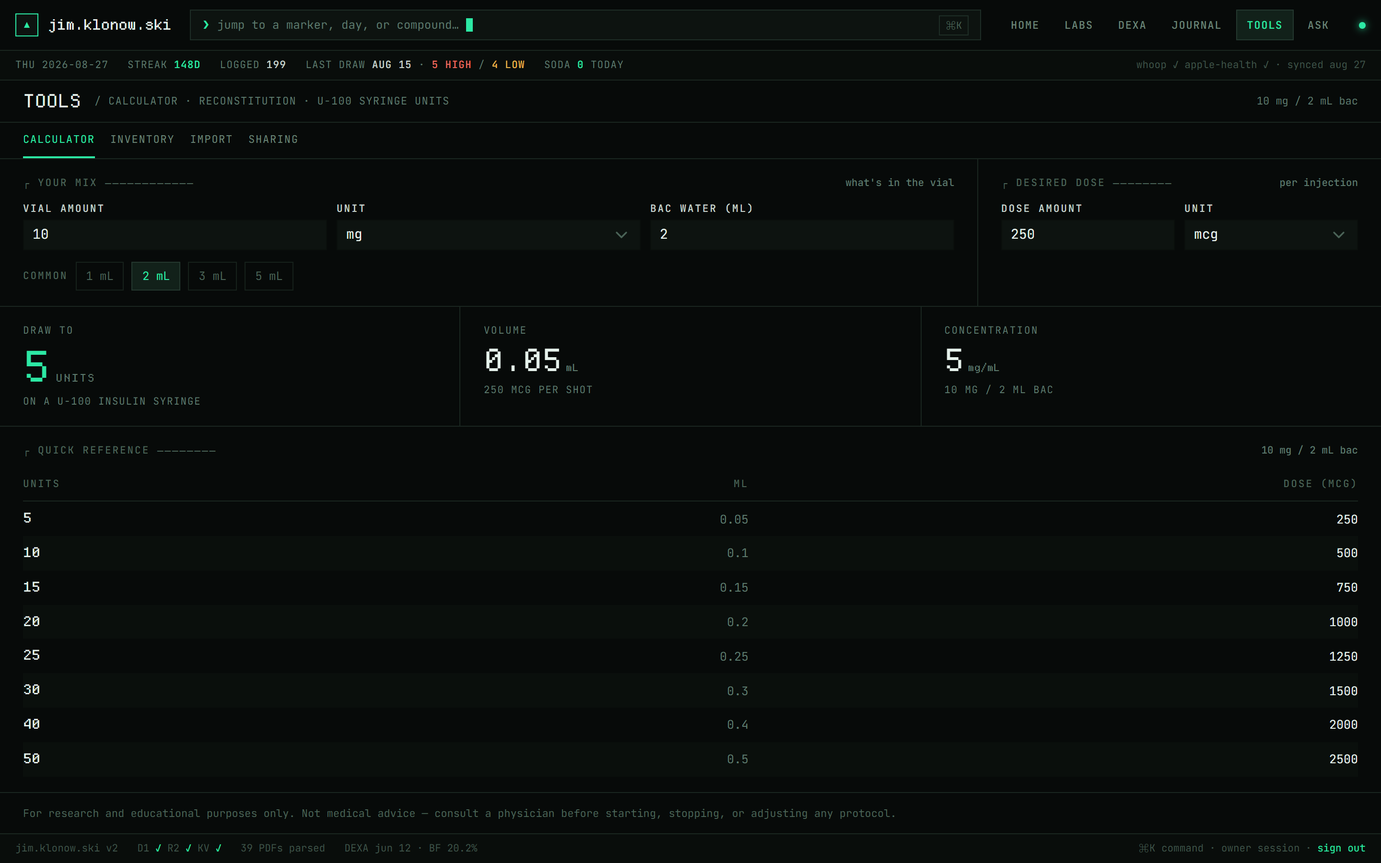
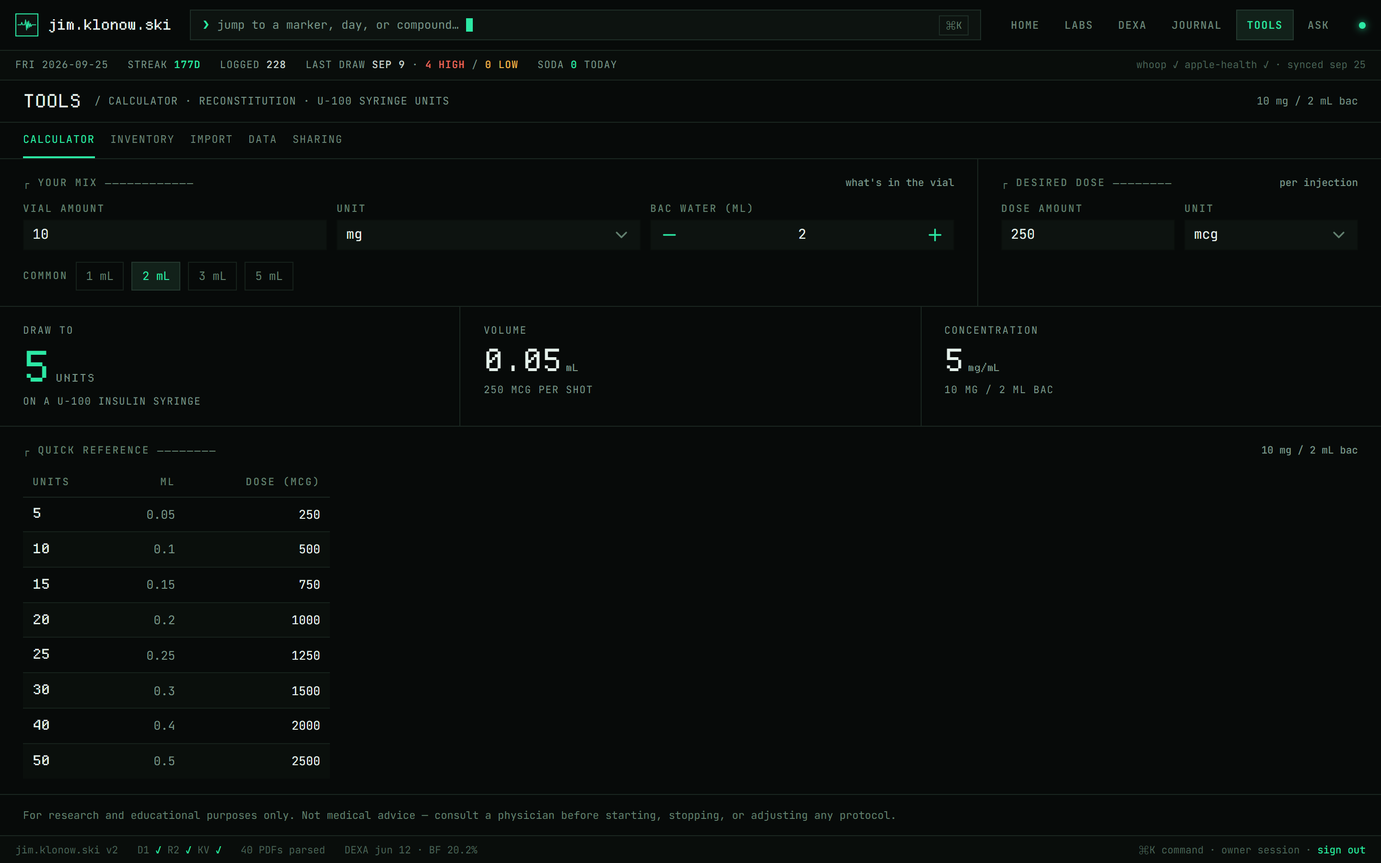
chore: refresh README and screenshots

diff --git a/README.md b/README.md
@@ -28,24 +28,27 @@ Personal health tracking site. Bloodwork trends, body composition, and a daily p
 | ![Entries ledger](.github/screenshots/journal-entries.png) | ![Calendar](.github/screenshots/journal-calendar.png) |
 | **`/journal/supplements` — standing stack** | **`/tools/calculator` — reconstitution & syringe units** |
 | ![Supplements](.github/screenshots/journal-supplements.png) | ![Calculator](.github/screenshots/tools-calculator.png) |
-| **`/tools/sharing` — role-based share links** | **`/tools/import` — Apple Health import + auto-sync** |
+| **`/journal/vaccines` — immunization record** | **`/tools/data` — export + change history** |
+| ![Vaccines](.github/screenshots/journal-vaccines.png) | ![Data](.github/screenshots/tools-data.png) |
+| **`/tools/sharing` — share links + sessions** | **`/tools/import` — Apple Health import + auto-sync** |
 | ![Sharing](.github/screenshots/tools-sharing.png) | ![Import](.github/screenshots/tools-import.png) |
 
 </details>
 
 ## Stack
 
-- **Nuxt 4** + Vue 3 + TypeScript
+- **Nuxt 4** + Vue 3 + TypeScript, on **Node ≥ 22.18** and **pnpm 11**
 - **Nuxt UI v4** + Tailwind CSS v4 — "Phosphor Terminal" dark-only TUI theme (JetBrains Mono / Departure Mono)
 - **Installable PWA** — standalone display, afib-heartbeat icon set (`public/`), iOS homescreen metas in `app/app.vue`
-- **Cloudflare Workers** — deployed via Wrangler (nodejs_compat)
-- **Cloudflare D1** — primary data store (journal, labs, DEXA, health metrics, workouts, cycles, digests, share invites)
-- **Cloudflare R2** — lab PDF and progress photo storage
-- **Cloudflare KV** — rate limiting
+- **Cloudflare Workers** (Paid plan) — deployed via Wrangler (nodejs_compat), with cron triggers for the scheduled tasks
+- **Cloudflare D1** — two databases: the real one (`DB`) and the demo sandbox (`DEMO_DB`), built and changed by numbered migrations
+- **Cloudflare R2** — lab PDFs, progress photos, the demo seed, and the weekly database backups
+- **Cloudflare KV** — rate limiting, and the "sign out other devices" cutoff
+- **zod** — every request body and query string is validated against a schema in `shared/utils/schemas.ts`
 - **nuxt-echarts** — trend charts
-- **Anthropic SDK** — server-side lab PDF parsing, protocol-aware lab summaries, daily/weekly health digests, freeform stock-dump parsing into inventory rows (structured output), and the `/ask` chat
+- **Anthropic SDK** — lab PDF parsing, protocol-aware lab summaries, daily/weekly health digests, freeform stock-dump parsing into inventory rows (structured output), and the `/ask` chat (models under **AI** below)
 - **Whoop API** — OAuth sync for recovery, sleep, and workout data
-- **@nuxtjs/seo** — per-page titles via a `%s | jim.klonow.ski` template (each page sets just its leaf name with `useSeoMeta`) and inferred OG/Twitter cards over a shared `public/og.png`
+- **@nuxtjs/seo** — per-page titles via a `%s | jim.klonow.ski` template (each page sets just its leaf name with `useSeoMeta`), inferred OG/Twitter cards over a shared `public/og.png`, and the robots rules under **Search engines and AI crawlers**
 
 ## Sections
 
@@ -57,6 +60,7 @@ Personal health tracking site. Bloodwork trends, body composition, and a daily p
 | `/labs/upload` | Upload a new lab PDF (parsed server-side into structured markers) — owner only |
 | `/labs/login` | Owner password sign-in |
 | `/share/[token]` | Public landing that exchanges a share link for a role session |
+| `/demo` | Starts a 24-hour demo session on the synthetic sandbox and lands on the home dashboard with a short guided tour — see **Demo mode** |
 | `/journal` | Hub — vital tiles with sparklines, today's doses + workout, soda/Whoop strip, and cards into each spoke below |
 | `/journal/trends` | Every vitals + Whoop/Apple Watch chart under one shared range picker (30/60/90d/all, optional 7d smoothing) |
 | `/journal/compounds` | Active protocol and every tracked compound — modeled exposure curves for the slow-release injectables (Bateman superposition of the dose log, lab draws overlaid) and a planned-vs-logged adherence panel scoring the standing cadence plus any planned cycles — linking out to the calculator and vial inventory |
@@ -65,14 +69,16 @@ Personal health tracking site. Bloodwork trends, body composition, and a daily p
 | `/journal/workouts` | Session log merged from Apple Health + Whoop, with stat cells and type mix |
 | `/journal/entries` | Day-log ledger of every journal row — hidden from the doctor role |
 | `/journal/[date]` | Create or edit a day's entry (read-only for guests) — "copy from previous" mirrors each injection site (left glute → right glute) so sides rotate day to day |
-| `/journal/calendar` | Month view with compound-colored dots, scheduled-dose rings (planned vs logged, from the hand-maintained `PROTOCOL_RULES` cadence merged with any planned cycles — an upcoming cycle previews its rings on future days) + protocol timeline (logged compounds, plus standing meds backfilled from the `STANDING_COMPOUNDS` constant) |
+| `/journal/calendar` | Month view with compound-colored dots, scheduled-dose rings (planned vs logged, from the standing `PROTOCOL_RULES` cadence merged with any planned cycles — an upcoming cycle previews its rings on future days) + protocol timeline (logged compounds, plus the standing meds in `STANDING_COMPOUNDS` that never enter the dose log; both live in `shared/utils/protocolRules.ts`) |
 | `/journal/photos` | Progress photos — bulk upload, before/after compare slider, reframing |
 | `/journal/compound/[name]` | Dosing history for a single compound, with a modeled exposure curve for the slow-release ones |
 | `/journal/supplements` | Standing vitamin/supplement/skin stack (active, on-hand, discontinued) — feeds AI prompts; editing owner only |
+| `/journal/vaccines` | Immunization record — one row per dose, grouped into per-vaccine coverage with next-due boosters (`shared/utils/vaccines.ts`), plus a profile card for standing facts like blood type. Recent shots reach the AI prompts as an acute-response caveat; readable by every role, editing owner only |
 | `/tools/calculator` | Peptide reconstitution & syringe unit calculator — bridges IU↔mg for HGH/hCG when opened from a compound page (IU doses display their mg equivalent app-wide via `IU_PER_MG` in `shared/utils/peptideCalc.ts`) |
 | `/tools/inventory` | Peptide vial inventory and depletion tracking — **✦ STOCK DUMP** has Claude parse a freeform "what's in the fridge" sentence into sealed-vial rows (structured output, corrected in a confirm table before saving), and a **runway panel** (`shared/utils/stockRunway.ts`) shows days-of-stock per compound at the logged pace plus whether the stockpile covers the remaining doses of the next planned cycle — owner only, plus the demo sandbox |
 | `/tools/import` | One-time Apple Health XML import + Health Auto Export auto-sync webhook — owner only |
-| `/tools/sharing` | Mint, list, and revoke share links — owner only |
+| `/tools/data` | Full JSON export (the weekly backup's format) and the change history, where any delete or overwrite can be put back — owner only |
+| `/tools/sharing` | Mint, list, and revoke share links, and sign out your other devices — owner only |
 | `/ask` | AI analysis console — streaming chat over the full tracked history (labs, DEXA, journal, Whoop, protocol) — owner only |
 | `/privacy` | Privacy notice |
 
@@ -82,12 +88,14 @@ Personal health tracking site. Bloodwork trends, body composition, and a daily p
 
 Cookie sessions are HMAC-signed tokens (key: `LABS_SECRET`) carrying one of four roles:
 
-- **owner** — logs in with `LABS_PASSWORD`; full read/write. Writes to lab data additionally require a 9-digit `LABS_UPLOAD_PIN` (second-factor cookie, 12h).
-- **friend** — read-only mirror of the whole site.
-- **doctor** — clinical slice only: labs, DEXA, vitals/protocol trends, compounds, workouts. Daily entries, the `/journal/entries` ledger, notes, sodas, photos, and digests are blocked (notes/sodas are stripped server-side).
-- **demo** — self-serve, credential-free 24h session minted by visiting [`/demo`](https://jim.klonow.ski/demo) (replaces whatever session cookie is present). Sees and edits only the synthetic sandbox — see **Demo mode** below. Blocked from the AI/upload/sharing surfaces.
+- **owner** — logs in with `LABS_PASSWORD`; full read/write. Lab uploads, lab JSON saves, and summary regeneration also need a 9-digit `LABS_UPLOAD_PIN` (a second-factor cookie, 12h).
+- **friend** — read-only mirror of the whole site, except the owner's management pages (upload, import, data, sharing, inventory) and `/ask`.
+- **doctor** — the clinical record: labs and DEXA, the journal hub, vitals and protocol trends, compounds and their dossiers, workouts, the calendar, the calculator, supplements, vaccines, and planned cycles. Daily entries, the `/journal/entries` ledger, photos, and digests are off-limits, and the journal list the doctor receives has food, sodas, and notes blanked server-side. The allowlist is `DOCTOR_PAGES` in `shared/utils/access.ts`; anything not on it is denied.
+- **demo** — self-serve, credential-free 24h session minted by visiting [`/demo`](https://jim.klonow.ski/demo) (replaces whatever session cookie is present). Sees and edits only the synthetic sandbox — see **Demo mode** below. Blocked from the AI, upload, import, data, and sharing pages.
 
-Guests never get a password: the owner mints **share links** (`/share/<token>`) from `/tools/sharing`, each with a role, redemption expiry, and use limit, backed by the `invites` D1 table. Revoking a link also invalidates every session minted from it — guest requests re-check invite liveness. Sign-in/sign-out live in the footer status bar.
+Guests never get a password: the owner mints **share links** (`/share/<token>`) from `/tools/sharing`, each with a role, redemption expiry, and use limit, backed by the `invites` D1 table, which stores only a SHA-256 of each link's token. Revoking a link also invalidates every session minted from it — guest requests re-check invite liveness. Sign-in/sign-out live in the footer status bar.
+
+Owner sessions are self-contained signed tokens, so **Sign out other devices** on `/tools/sharing` is how one ends early: it stores a cutoff time in KV, and every owner session and upload-PIN unlock issued before it stops working (this device gets a fresh token). It can take up to a minute to reach every Cloudflare location.
 
 Enforcement is layered: `server/middleware/auth.ts` verifies the cookie once per request and gates page navigation, `shared/utils/access.ts` holds the role→page policy shared with the client route middleware, and every API handler asserts its own requirement (`requireLabsAuth` / `requireOwner` / `requireRole` in `server/utils/auth.ts`).
 
@@ -99,7 +107,7 @@ Visiting **[/demo](https://jim.klonow.ski/demo)** mints a demo-role session and 
 
 - A fully **synthetic persona**: ~20 months of journal vitals and doses, 9 lab draws with story arcs (ApoB 108→71, a TRT start with the expected LH/FSH suppression and hematocrit creep), 4 DEXA scans, daily sleep/recovery metrics, workouts, a supplement stack, and a vial inventory that lines up with the logged doses.
 - **Sandboxed writes** — journal days, sodas, supplements, and vials are editable (`requireWriteAccess` guard); demo visitors share the sandbox until it resets.
-- **Canned AI** — TICKER digests and lab summaries are pre-written into the seed; no live Anthropic calls, and `/ask`, uploads, imports, and sharing stay owner-only.
+- **Canned AI** — TICKER digests and lab summaries are pre-written into the seed; no live Anthropic calls, and `/ask`, uploads, imports, the data page, and sharing stay owner-only.
 - **Nightly reset** — the `demo:reset` task (09:00 UTC cron) wipes the sandbox and reseeds it from `demo/seed.json` in R2, re-anchoring every relative date so the data always ends "yesterday".
 
 The persona is generated deterministically by `scripts/demo/generate-demo-data.mjs` (committed seed: `scripts/demo/demo-seed.json`) and loaded with `pnpm demo:seed:local` / `pnpm demo:seed:remote`. Progress photos are neutral placeholder silhouettes under `demo/` keys in the photos bucket; the photo proxy refuses any non-`demo/` key to a demo session.
@@ -115,6 +123,16 @@ Hardening beyond auth is handled by [nuxt-security](https://nuxt-security.vercel
 
 Deliberately not enabled — with reasoning in the config comments: `xssValidator` (false-positives on freeform journal text; Vue escaping + CSP cover XSS), `corsHandler` (same-origin API), `allowedMethodsRestricter` (nitro's file-based method routing already 405s), CSRF tokens (cookies are `httpOnly`/`secure`/`sameSite: lax`).
 
+The lab-PDF proxy only serves flat lab-PDF names (`isLabPdfKey`). The labs bucket also holds the demo seed and the database backups, and the proxy would otherwise have served those to any signed-in guest who guessed a key.
+
+### Search engines and AI crawlers
+
+Only the public pages are meant to be indexed: the home page and `/privacy`. Both halves of that live in `nuxt.config.ts`:
+
+- **`robots.txt`** disallows `/labs`, `/journal`, `/tools`, `/ask`, `/share`, and `/demo`. A crawled `/demo` would mint a session, and everything else only ever shows a crawler a login redirect. `/api` is deliberately left out, since blocking it can break Google's render of pages that fetch client-side.
+- **Route rules** (`robots: false`) send `X-Robots-Tag: noindex` on the private sections and keep them out of the sitemap.
+- **AI-usage directives** in the `*` group (`Content-Usage: train-ai=n, search=y` and `Content-Signal: search=yes, ai-train=no, ai-input=no`) say search indexing yes, training and live AI-answer fetching no. They're advisory. Cloudflare's "Block AI bots" rule enforces the same thing at the edge.
+
 ## Data & integrations
 
 - All entries (journal, labs, DEXA, health metrics, workouts, vials, cycles, digests, invites) live in **D1**. `server/database/schema.sql` is the commented schema. The databases themselves are built and changed by the numbered wrangler migrations in `server/database/migrations`.
@@ -126,47 +144,104 @@ Deliberately not enabled — with reasoning in the config comments: `xssValidato
 - The **`/ask` console** (`server/api/ai/ask.post.ts`) streams answers to freeform questions over a per-request fact sheet built by `server/utils/askContext.ts` — every lab draw, every DEXA scan, all-time compound history, precomputed trends, and recent daily detail. Owner-only and KV rate-limited, since every question is an Anthropic call.
 - All three AI surfaces share standing protocol context: the intended dosing schedule (generated by `shared/utils/protocolProse.ts` from the same `PROTOCOL_RULES` the adherence panel scores against, plus standing meds that never hit the dose log and as-needed compounds), dated one-off notes (`shared/utils/protocolEvents.ts`), the supplement stack rendered live from the `supplements` table (so edits on `/journal/supplements` reach the prompts without a deploy), and planned-cycle context from the `cycles` table — an upcoming cycle flags the need for a baseline draw, an active one tells the model which day/week the period falls on and to compare gating markers (HDL, ALT/AST, hematocrit, ferritin, estradiol) against the named baseline draw and hands it the passive vitals watch precomputed (flagged/watch/steady per metric, so it narrates deterministic numbers rather than re-deriving them), a not-yet-scheduled one (month/quarter precision) is described as intent rather than a schedule — no start date to count toward, plus whether the latest draw is fresh enough to serve as its baseline — and a recently ended one frames the recovery window. All of it as-of-date aware, since lab summaries can regenerate for historical draws.
 
+### AI
+
+Every model choice is one line in `AI_MODELS` (`server/utils/ai.ts`):
+
+| Task | Model |
+|---|---|
+| `/ask` chat, daily and weekly digests | Claude Sonnet 5 (`claude-sonnet-5`) |
+| Lab / DEXA / echo PDF extraction, lab summaries, stock-dump parsing | Claude Opus 5.5 (`claude-opus-5-5`) |
+
+All of it is server-side and owner-only (the demo reads canned digests and summaries from its seed). Each database-backed block of prompt context (supplements, cycles, vaccines) has its own file in `server/utils/`.
+
+## Architecture
+
+- **`shared/`** is code both the app and the server use: domain math (cycles, trends, PK curves, stock runway, vaccines), the protocol rules and prose, request schemas, the access policy, and the `/api/health` rules. It imports nothing from Nuxt or h3, and its relative imports carry an explicit `.ts`, so `node --test` loads it directly under Node's type stripping. That's what the unit tests exercise.
+- **Validation.** Request shapes are zod schemas in `shared/utils/schemas.ts`. Handlers read them through `readValidatedJson` / `validatedQuery` (`server/utils/validate.ts`), so a bad field is a 400 that names it rather than a 500 from a D1 bind.
+- **Reads.** List endpoints go through `listRows` (`server/utils/db.ts`), which routes demo sessions to `DEMO_DB`. Responses carry an ETag (`server/utils/etag.ts`) and `Cache-Control: private, no-cache`, so the browser revalidates and gets an empty 304 when nothing changed. Date-keyed lists accept `?from=YYYY-MM-DD&to=YYYY-MM-DD`. On the client, every list comes from `useListResource` (`app/composables/useListResource.ts`), which shares one cached copy per key across pages and revalidates in the background on client-side navigation.
+- **Writes and forms.** `useSaveAction` wraps each save or delete (pending flag, double-submit guard, success toast, and a failure toast that shows the server's message). `useDirtyGuard` warns before leaving a form with unsaved edits.
+- **Change history.** Owner writes to the tracked tables record the row as it was before (`server/utils/audit.ts`, the `audit_log` table), and `/tools/data` can put any of them back. That stands in for a `deleted_at` column on every table. Demo-sandbox writes and automated ones (webhook, Whoop sync, digests) aren't recorded.
+- **Theme layers.** Colors are `@theme` tokens in `app/assets/css/main.css`. Component-wide looks (floating-panel chrome, field wells, form labels, tables) are set once in `app/app.config.ts`. Charts and inline styles, which need literal colors, read the hex twins in `app/utils/chartTheme.ts`, and `tests/theme.test.mjs` fails if those drift from the CSS tokens.
+- **Database.** Numbered migrations in `server/database/migrations` build and change both databases, and each database records what it has applied in `d1_migrations`. `server/database/schema.sql` is the commented snapshot for reading; `tests/migrations.test.mjs` replays every migration in SQLite and fails if the result differs from it.
+- **One Vue version.** `pnpm-workspace.yaml` pins `vue` and every `@vue/*` package to a single catalog line. Mixed Vue patch releases once broke every page with a link during production SSR.
+
+## Scheduled tasks
+
+Cloudflare fires the crons in `wrangler.jsonc` `triggers.crons`, and `server/schedule.ts` maps each to its Nitro tasks (`server/tasks/`). `tests/schedule.test.mjs` holds the two lists equal. Times are UTC; Chicago is 5 hours behind in summer, 6 in winter.
+
+| Cron | Task | What it does |
+|---|---|---|
+| `0 9 * * *` | `demo:reset` | Wipes the demo sandbox and reseeds it from R2, dates re-anchored to yesterday |
+| `0 11 * * *` | `whoop:sync` | Pulls recovery, sleep, strain, and workouts from Whoop |
+| `0 14 * * *` | `digest:daily` | Writes yesterday's recap |
+| `0 15 * * SUN` | `digest:weekly` | Writes the recap of the Sunday–Saturday week just ended |
+| `0 8 * * SUN` | `db:backup` | Snapshots the main database to R2 as gzipped JSON, keeping 12 weeks |
+| `0 8 * * SUN` | `audit:purge` | Removes the files of photos deleted 30+ days ago, and change-history entries older than a year |
+
+Days of the week are always written as names. Cloudflare numbers them 1 = Sunday … 7 = Saturday, so a digit means something different than it does in most crons, and a `0` fails the deploy. A cron's tasks run concurrently.
+
+### Monitoring and backups
+
+- Every task runs through `runLoggedTask` (`server/utils/taskRuns.ts`). It records each run in the `task_runs` table and then lets a failure through, so the cron invocation fails in Cloudflare's log too.
+- `GET /api/health` returns `{ ok }` with 200 or 503, for an uptime monitor to watch. It fails when a task is overdue against its window (`TASK_STALE_AFTER_HOURS` in `server/schedule.ts`), when a task's latest run failed, or when the Apple Health or Whoop feeds stop arriving. Only the owner sees the per-check detail.
+- The weekly backup lands in the labs bucket under `backups/d1/`, which the PDF proxy refuses to serve. To restore one, or an export from `/tools/data`, turn it back into SQL with `scripts/restore-backup.mjs`; its header has the steps. Rehearse on `--local` first. D1 Time Travel separately covers any point in the last 30 days.
+
+## Configuration
+
+Every secret the Worker reads is listed, with notes, in `.env.example`. Copy it to `.env` for local development; in production set each with `npx wrangler secret put <NAME>`.
+
+| Variable | Used for |
+|---|---|
+| `LABS_SECRET` | HMAC key for the session and upload-PIN cookies. Rotating it signs everyone out |
+| `LABS_PASSWORD` | Owner sign-in at `/labs/login` |
+| `LABS_UPLOAD_PIN` | Second factor for lab uploads, JSON saves, and summary regeneration |
+| `WEBHOOK_TOKEN` | Bearer token Health Auto Export sends to the Apple Health webhook (its own secret; the webhook refuses everything while it's unset) |
+| `ANTHROPIC_API_KEY` | Every AI call |
+| `WHOOP_CLIENT_ID`, `WHOOP_CLIENT_SECRET` | Whoop OAuth app credentials, for connecting and the nightly sync |
+
+Bindings (the D1 databases, R2 buckets, and KV namespace) are declared in `wrangler.jsonc`; `pnpm types` regenerates their TypeScript types in `worker-configuration.d.ts`.
+
 ## Dev
+
+Requires Node 22.18 or newer (the tests and scripts rely on its built-in TypeScript type stripping) and pnpm 11.
 
 ```bash
 pnpm install
-pnpm dev            # https://local.emkay.com:3000 (requires local TLS cert in certs/)
-pnpm typecheck
-pnpm lint
-pnpm test           # unit tests (node --test, no framework) over the framework-free shared/utils math:
-                    #   cycle dates/windows, passive cycle signals, stock runway, labs time-travel
-pnpm sync:local     # mirror prod -> local: D1 dump/import + R2 objects (stop dev server first)
-pnpm sync:local:r2  # top up local R2 objects only (PDFs/photos referenced by local D1)
-pnpm demo:generate    # regenerate the synthetic demo persona (scripts/demo/demo-seed.json)
-pnpm demo:seed:local  # wipe + reseed the local demo sandbox DB and R2 objects
-pnpm demo:seed:remote # same against the production DEMO_DB + buckets
+pnpm dev              # HTTPS dev server on port 3000
+pnpm check            # types, lint, typecheck, tests (what pnpm deploy runs first)
+pnpm test             # unit tests (node --test over tests/*.test.mjs, no framework)
+pnpm test:watch       # the same, rerunning on change
+pnpm types            # regenerate worker-configuration.d.ts after editing wrangler.jsonc
 pnpm db:new <name>    # new numbered migration in server/database/migrations
 pnpm db:migrate       # apply pending migrations to both local DBs (main + demo)
 pnpm db:status        # applied/pending per local DB (db:status:remote for the real ones)
+pnpm sync:local       # mirror prod -> local: D1 dump/import + R2 objects (stop the dev server first)
+pnpm sync:local:r2    # top up local R2 objects only (PDFs/photos referenced by local D1)
+pnpm demo:generate    # regenerate the synthetic demo persona (scripts/demo/demo-seed.json)
+pnpm demo:seed:local  # wipe + reseed the local demo sandbox DB and R2 objects
+pnpm demo:seed:remote # same against the production DEMO_DB + buckets
 ```
+
+The dev server runs over HTTPS so secure cookies work locally. Its host and certificate paths are `devServer` in `nuxt.config.ts`; point them at your own locally trusted certificate (e.g. from mkcert) in `certs/`, which is gitignored. D1, R2, and KV are emulated locally under `.wrangler/state`.
 
 `pnpm sync:local` clears all local D1 state, the demo DB included. Afterwards run `pnpm db:migrate`, which rebuilds the empty demo DB and applies anything newer than prod, then `pnpm demo:seed:local`.
 
 ## Deploy
 
 ```bash
-pnpm deploy     # nuxt build + wrangler deploy
-pnpm preview    # local Wrangler Workers emulator
+pnpm deploy     # pnpm check, then nuxt build, then wrangler deploy
+pnpm preview    # build, then run the built Worker in Wrangler's local emulator
 ```
 
-Schema changes are numbered migrations (`pnpm db:new <name>`), mirrored into `server/database/schema.sql` in the same change. `pnpm test` fails if replaying the migrations doesn't reproduce that file. Apply them to both remote databases before deploying code that needs them:
+The build generates the real deploy config. Nitro writes `.output/server/wrangler.json`, which is `wrangler.jsonc` with the Worker entry point and static assets pointed at the build output, plus a `.wrangler/deploy/config.json` that redirects `wrangler deploy` to it. That's why the deploy log warns that `main` and `assets` are overridden. Edit `wrangler.jsonc`, never the generated file.
+
+Schema changes are numbered migrations (`pnpm db:new <name>`), mirrored into `server/database/schema.sql` in the same change. Apply them to both remote databases **before** deploying code that needs them:
 
 ```bash
-pnpm db:migrate:remote   # main + demo; each database records what it has applied in d1_migrations
+pnpm db:migrate:remote   # main + demo; each asks for confirmation
 ```
 
-The one-off files applied by hand before the ledger existed are in `server/database/archive`.
+The one-off files applied by hand before the migrations ledger existed are in `server/database/archive`.
 
-### Monitoring and backups
-
-- Every cron task records each run in the `task_runs` table, and a failed run also fails the cron invocation in Cloudflare's log.
-- `GET /api/health` returns `{ ok }` with 200 or 503, for an uptime monitor. It fails when a task is overdue against its cadence (`TASK_STALE_AFTER_HOURS` in `server/schedule.ts`), when a task's latest run failed, or when the Apple Health or Whoop feeds stop arriving. The owner sees the per-check detail.
-- Owner writes to the tracked tables (journal days and sodas, supplements, vials, vaccines, cycles, photos, profile, lab and DEXA saves) are logged in `audit_log` with the row as it was before. `/tools/data` lists them and can put any delete or overwrite back. That replaces a `deleted_at` column on every table. A deleted photo keeps its R2 files for 30 days, then the weekly `audit:purge` removes them. The same page downloads a full export in the backup format.
-- `/tools/sharing` has **Sign out other devices**. It sets a cutoff in KV, and owner and upload-PIN tokens issued before it stop working.
-- The JSON list endpoints send an ETag and `Cache-Control: private, no-cache`, so the browser revalidates and gets a 304 when nothing changed. Date-keyed lists also accept `?from=YYYY-MM-DD&to=YYYY-MM-DD`.
-- `db:backup` runs Sundays at 08:00 UTC. It writes the main database as gzipped JSON to `backups/d1/` in the labs bucket and keeps 12 copies. OAuth tokens are left out. To restore, run `scripts/restore-backup.mjs`; its header has the steps. Rehearse on `--local` first.
+CI (`.github/workflows/ci.yml`) runs lint, typecheck, the tests, and a production build on every push, on Node 22 and 24. It doesn't deploy.
